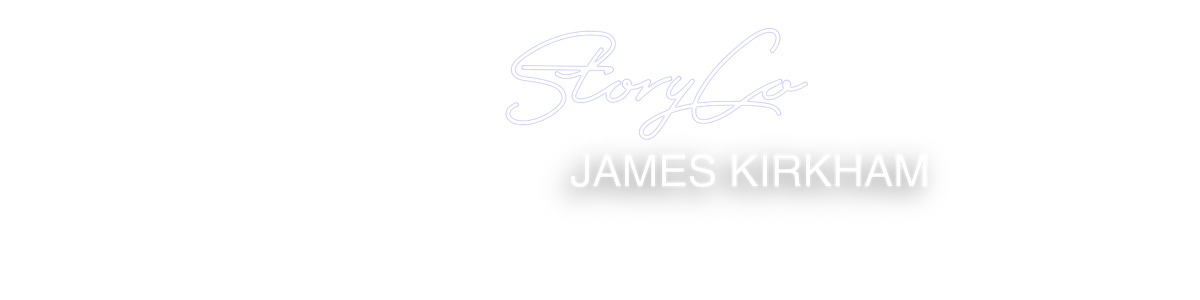
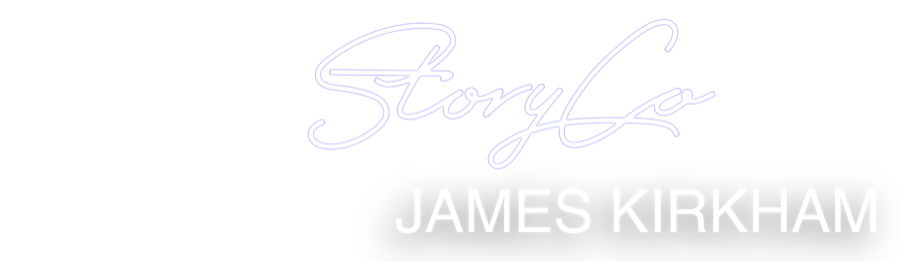
UI tweaks

diff --git a/styles.css b/styles.css
@@ -199,10 +199,10 @@ section + section {
 /* Text overlay layer (logo + name via mix-blend-mode) */
 .hero-logo-overlay {
   position: absolute;
-  top: 35%;
+  top: 28%;
   left: 50%;
   transform: translate(-50%, -50%);
-  width: clamp(300px, 50vw, 700px);
+  width: clamp(280px, 45vw, 600px);
   height: auto;
   z-index: 2;
   mix-blend-mode: screen;
@@ -281,16 +281,25 @@ section + section {
   }
 
   .hero-bg img {
-    object-position: 30% center;
+    object-position: 35% center;
   }
 
   .hero-logo-overlay {
-    width: 240px;
-    transform: translate(-50%, -70%);
+    width: 70vw;
+    top: 28%;
+    transform: translate(-50%, -50%);
   }
 
   .hero-gradient-left {
-    background: linear-gradient(to right, var(--color-bg) 0%, transparent 80%);
+    background: linear-gradient(to right, rgba(10, 10, 10, 0.7) 0%, transparent 90%);
+  }
+
+  .hero-headline {
+    font-size: 1.75rem;
+  }
+
+  .hero-premise {
+    font-size: 0.95rem;
   }
 }
 
@@ -394,18 +403,20 @@ section + section {
 }
 
 .episodes-all-link {
-  display: none;
   color: var(--color-muted);
   transition: color 0.25s;
+  font-size: 0.75rem;
 }
 
 .episodes-all-link:hover {
   color: var(--color-accent);
 }
 
-@media (min-width: 769px) {
-  .episodes-all-link {
-    display: inline;
+@media (max-width: 768px) {
+  .section-header-row {
+    flex-direction: column;
+    align-items: flex-start;
+    gap: 0.75rem;
   }
 }
 
